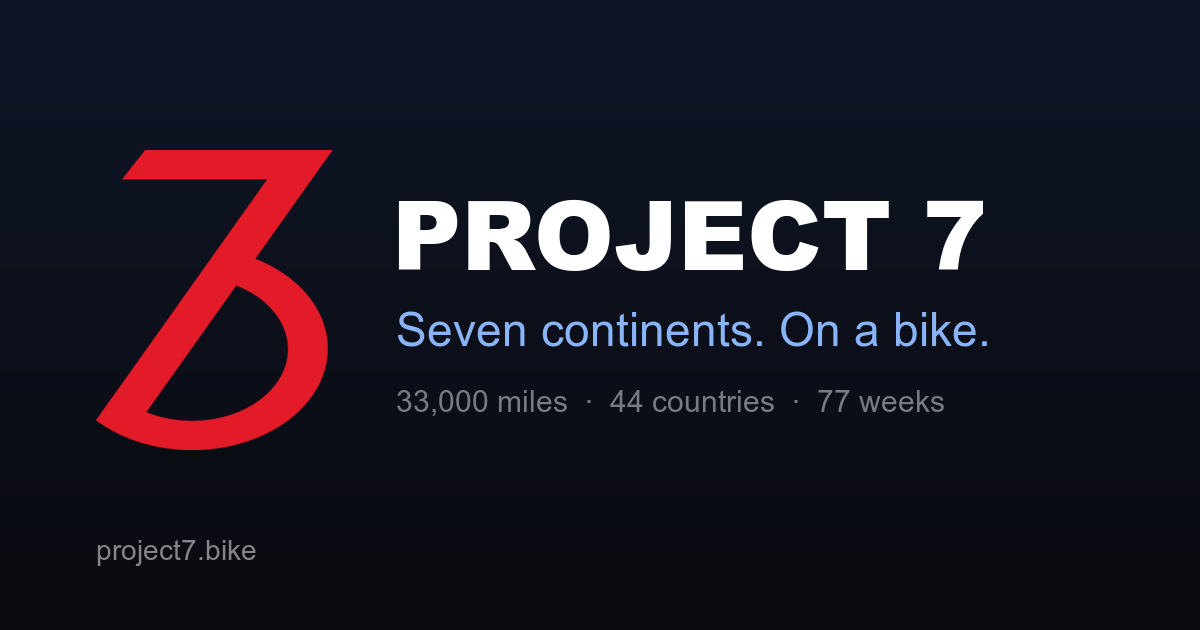
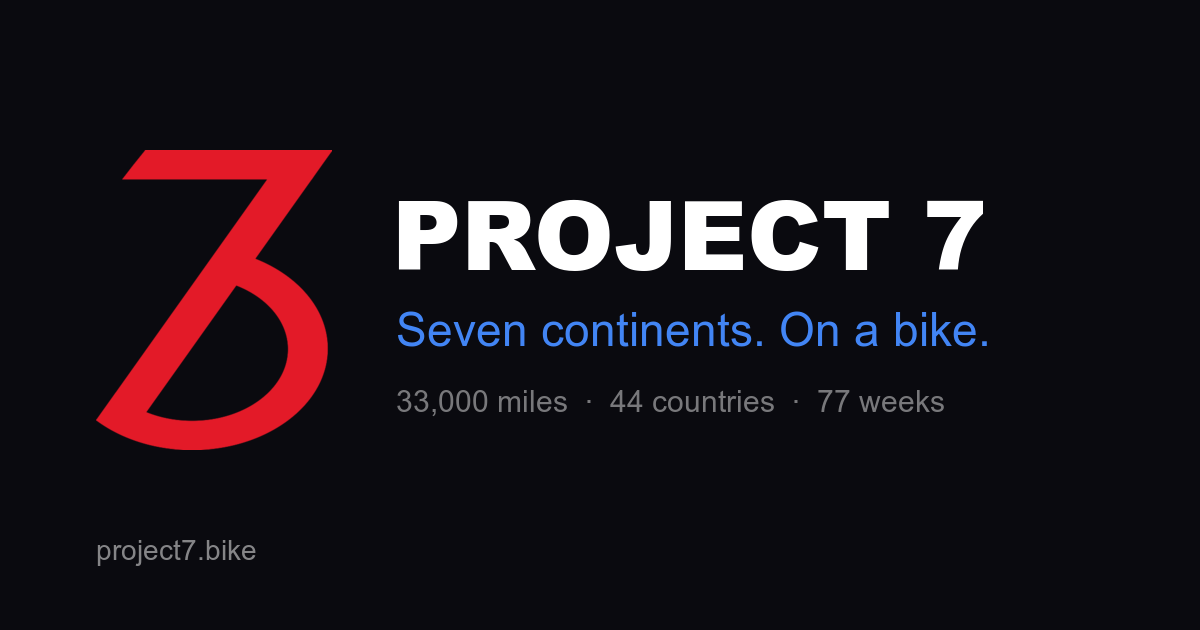
Match the share card to the site palette, and serve it as JPEG
The card used the reconstructed-trail blue for its tagline and a navy gradient
behind everything, neither of which appears on the site. It is now flat
#0a0a0f with the #4285f4 accent the pages actually use.

WhatsApp read the tags but showed no image. Its scraper is markedly happier
with JPEG than PNG and enforces a size ceiling, so the card is served as a
40 KB JPEG with an explicit type and secure_url.

Changed region(s): [[0.3392, 0.4825, 0.8325, 0.573]]

diff --git a/index.html b/index.html
@@ -14,15 +14,17 @@
     <meta property="og:title" content="Project 7 — Seven continents. On a bike." />
     <meta property="og:description" content="One rider attempting the first human-powered crossing of all seven continents — 33,000 miles through 44 countries." />
     <meta property="og:url" content="https://project7.bike/" />
-    <meta property="og:image" content="https://project7.bike/og.png" />
+    <meta property="og:image" content="https://project7.bike/og.jpg" />
     <meta property="og:image:width" content="1200" />
     <meta property="og:image:height" content="630" />
+    <meta property="og:image:type" content="image/jpeg" />
+    <meta property="og:image:secure_url" content="https://project7.bike/og.jpg" />
     <meta property="og:image:alt" content="Project 7 — seven continents, on a bike" />
 
     <meta name="twitter:card" content="summary_large_image" />
     <meta name="twitter:title" content="Project 7 — Seven continents. On a bike." />
     <meta name="twitter:description" content="One rider attempting the first human-powered crossing of all seven continents — 33,000 miles through 44 countries." />
-    <meta name="twitter:image" content="https://project7.bike/og.png" />
+    <meta name="twitter:image" content="https://project7.bike/og.jpg" />
     <meta name="theme-color" content="#0a0a0f" />
     <link rel="preconnect" href="https://fonts.googleapis.com" />
     <link rel="preconnect" href="https://fonts.gstatic.com" crossorigin />
